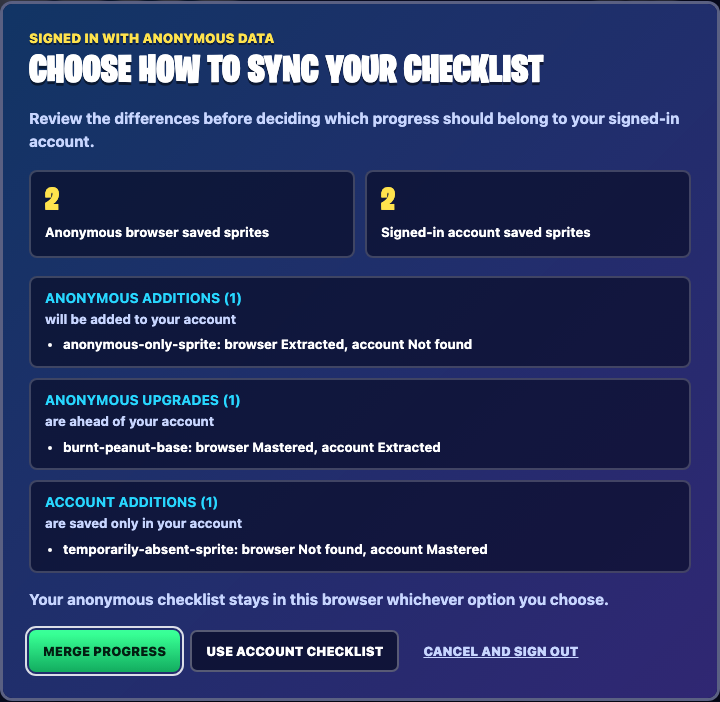
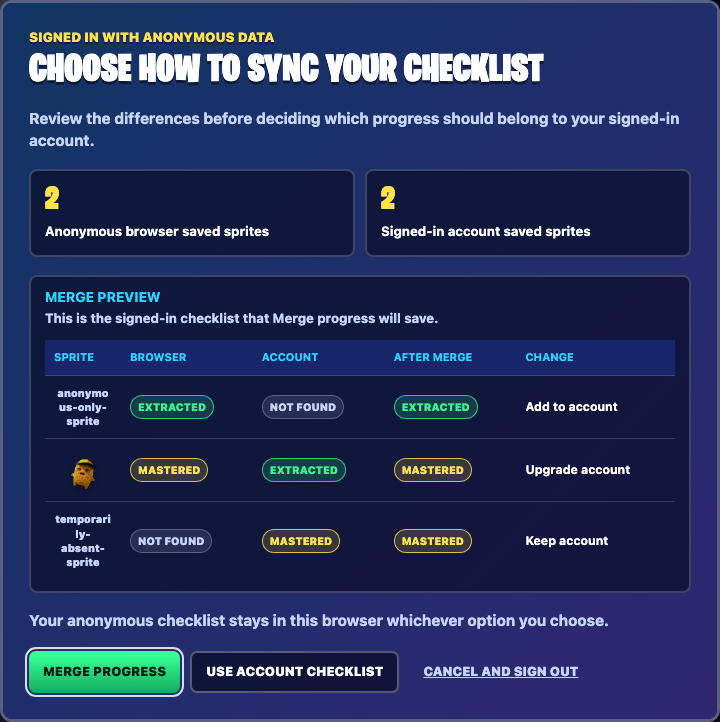
Visualize account sync merge preview

diff --git a/tests/browser/account-checklist-reconciliation.spec.ts b/tests/browser/account-checklist-reconciliation.spec.ts
@@ -237,10 +237,10 @@ test('signed-in anonymous data prompt compares both checklists and merges only a
   await expect(dialog).toBeVisible();
   await expect(dialog).toContainText('Anonymous browser saved sprites');
   await expect(dialog).toContainText('Signed-in account saved sprites');
-  await expect(dialog).toContainText('Anonymous additions (1)');
-  await expect(dialog).toContainText('Anonymous upgrades (1)');
-  await expect(dialog).toContainText('Account additions (1)');
-  await expect(dialog).toContainText('burnt-peanut-base: browser Mastered, account Extracted');
+  await expect(dialog).toContainText('Merge preview');
+  await expect(dialog).toContainText('Add to account');
+  await expect(dialog).toContainText('Upgrade account');
+  await expect(dialog.getByRole('img', { name: 'Burnt Peanut Sprite' })).toBeVisible();
 
   await dialog.getByRole('button', { name: 'Merge progress' }).click();
   await expect.poll(() => page.evaluate(() => window.__fortspritePromptTest?.writes)).toEqual([{

diff --git a/tests/browser/signed-in-anonymous-sync-story.spec.ts b/tests/browser/signed-in-anonymous-sync-story.spec.ts
@@ -85,9 +85,9 @@ test.describe('user story: reconcile an anonymous checklist after sign-in', () =
     await page.evaluate(() => window.__anonymousSyncStory?.signIn());
     const dialog = page.getByRole('dialog', { name: 'Choose how to sync your checklist' });
     await expect(dialog).toBeVisible();
-    await expect(dialog).toContainText('Anonymous additions (1)');
-    await expect(dialog).toContainText('Anonymous upgrades (1)');
-    await expect(dialog).toContainText('Account additions (1)');
+    await expect(dialog).toContainText('Merge preview');
+    await expect(dialog).toContainText('Add to account');
+    await expect(dialog).toContainText('Upgrade account');
     await dialog.screenshot({ path: screenshots.comparison });
 
     await dialog.getByRole('button', { name: 'Merge progress' }).click();

diff --git a/docs/user-stories/signed-in-anonymous-sync.md b/docs/user-stories/signed-in-anonymous-sync.md
@@ -10,7 +10,7 @@ Before signing in, the player has mastered Burnt Peanut in this browser. The che
 
 ## The player reviews the sync decision
 
-After sign-in completes, editing is blocked by the “Signed in with anonymous data” dialog. It compares saved sprite counts and lists browser additions, browser upgrades, and account-only sprites with their statuses. The player can merge, use the account checklist, or cancel and sign out.
+After sign-in completes, editing is blocked by the “Signed in with anonymous data” dialog. Its merge-preview table uses each affected variant’s artwork and shows browser status, saved account status, resulting merged status, and whether the merge adds, upgrades, or keeps the account entry. The player can merge, use the account checklist, or cancel and sign out.
 
 ![Comparison dialog](./signed-in-anonymous-sync/02-sync-comparison.png)
 
